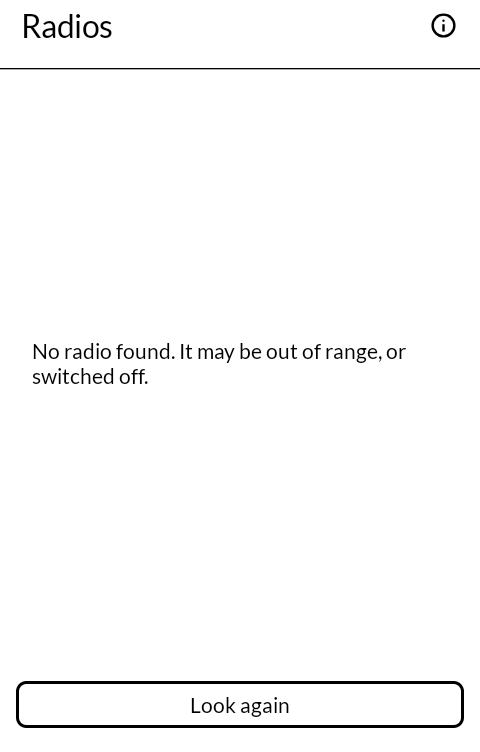
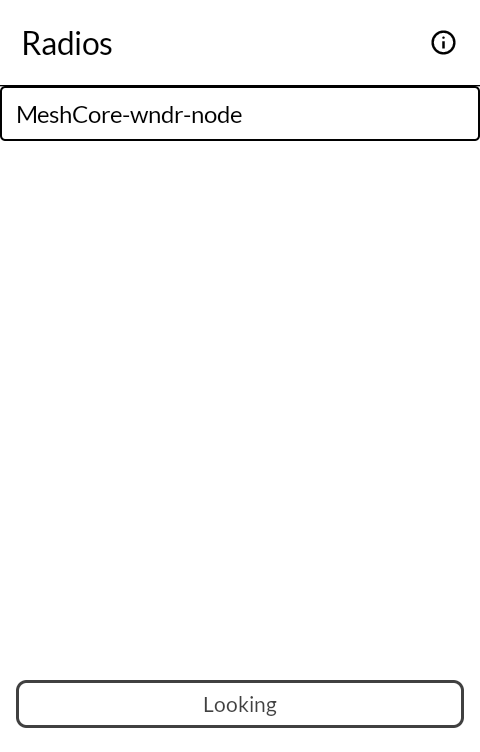
Say so when the radio will not take the connection
A link that never came up was handled as a disconnect, so a refusal
(status 133, the radio still connected to something else) left the list
on screen as if the press had not happened. Four screenshots now, taken
from a phone talking to a radio and a repeater.

Changed region(s): [[0.0, 0.0, 1.0, 0.1835], [0.0312, 0.887, 0.9688, 0.9787], [0.0625, 0.4588, 0.8438, 0.5199]]

diff --git a/app/src/main/kotlin/com/wanderwildwood/amime/ble/BleTransport.kt b/app/src/main/kotlin/com/wanderwildwood/amime/ble/BleTransport.kt
@@ -75,6 +75,9 @@ class BleTransport(
     }
 
     private var gatt: BluetoothGatt? = null
+
+    /** Whether this link ever came up, so a refusal can be told from a disconnect. */
+    private var linked = false
     private var rx: BluetoothGattCharacteristic? = null
     private val watchdog = Handler(Looper.getMainLooper())
 
@@ -200,6 +203,7 @@ class BleTransport(
     private fun openGatt(device: BluetoothDevice) {
         // TRANSPORT_LE is not the default for a dual-mode device, and letting the stack
         // choose sends the connection over BR/EDR, where none of this exists.
+        linked = false
         gatt = device.connectGatt(context, false, callback, BluetoothDevice.TRANSPORT_LE)
     }
 
@@ -209,6 +213,7 @@ class BleTransport(
             when (newState) {
                 BluetoothProfile.STATE_CONNECTED -> {
                     log { "connected status=$status" }
+                    linked = true
                     // MTU before service discovery: a larger MTU changes nothing about the
                     // services, and asking afterwards means the first frames go out at 20
                     // bytes and come back cut off.
@@ -228,6 +233,12 @@ class BleTransport(
                     // you looking at the radio.
                     gatt.close()
                     if (this@BleTransport.gatt === gatt) this@BleTransport.gatt = null
+                    // A link that never came up is a refusal, not a disconnect, and saying
+                    // nothing left the list on screen as if the press had not happened. The
+                    // usual cause is the radio holding a connection to something else: it
+                    // takes one at a time.
+                    if (!linked) fail(R.string.ble_could_not_connect, status)
+                    linked = false
                     listener.onDisconnected()
                 }
             }

diff --git a/README.md b/README.md
@@ -14,6 +14,7 @@ Not a fork. Written from scratch in Kotlin, on Mudita's own
 | | |
 |---|---|
 | ![Choosing a radio](screenshots/1-radios.png) | ![What it does and does not claim](screenshots/2-about.png) |
+| ![The radio, its battery, and who it knows](screenshots/3-people.png) | ![Logging in to a repeater over the air](screenshots/4-repeater.png) |
 
 ## Where this is up to
 
